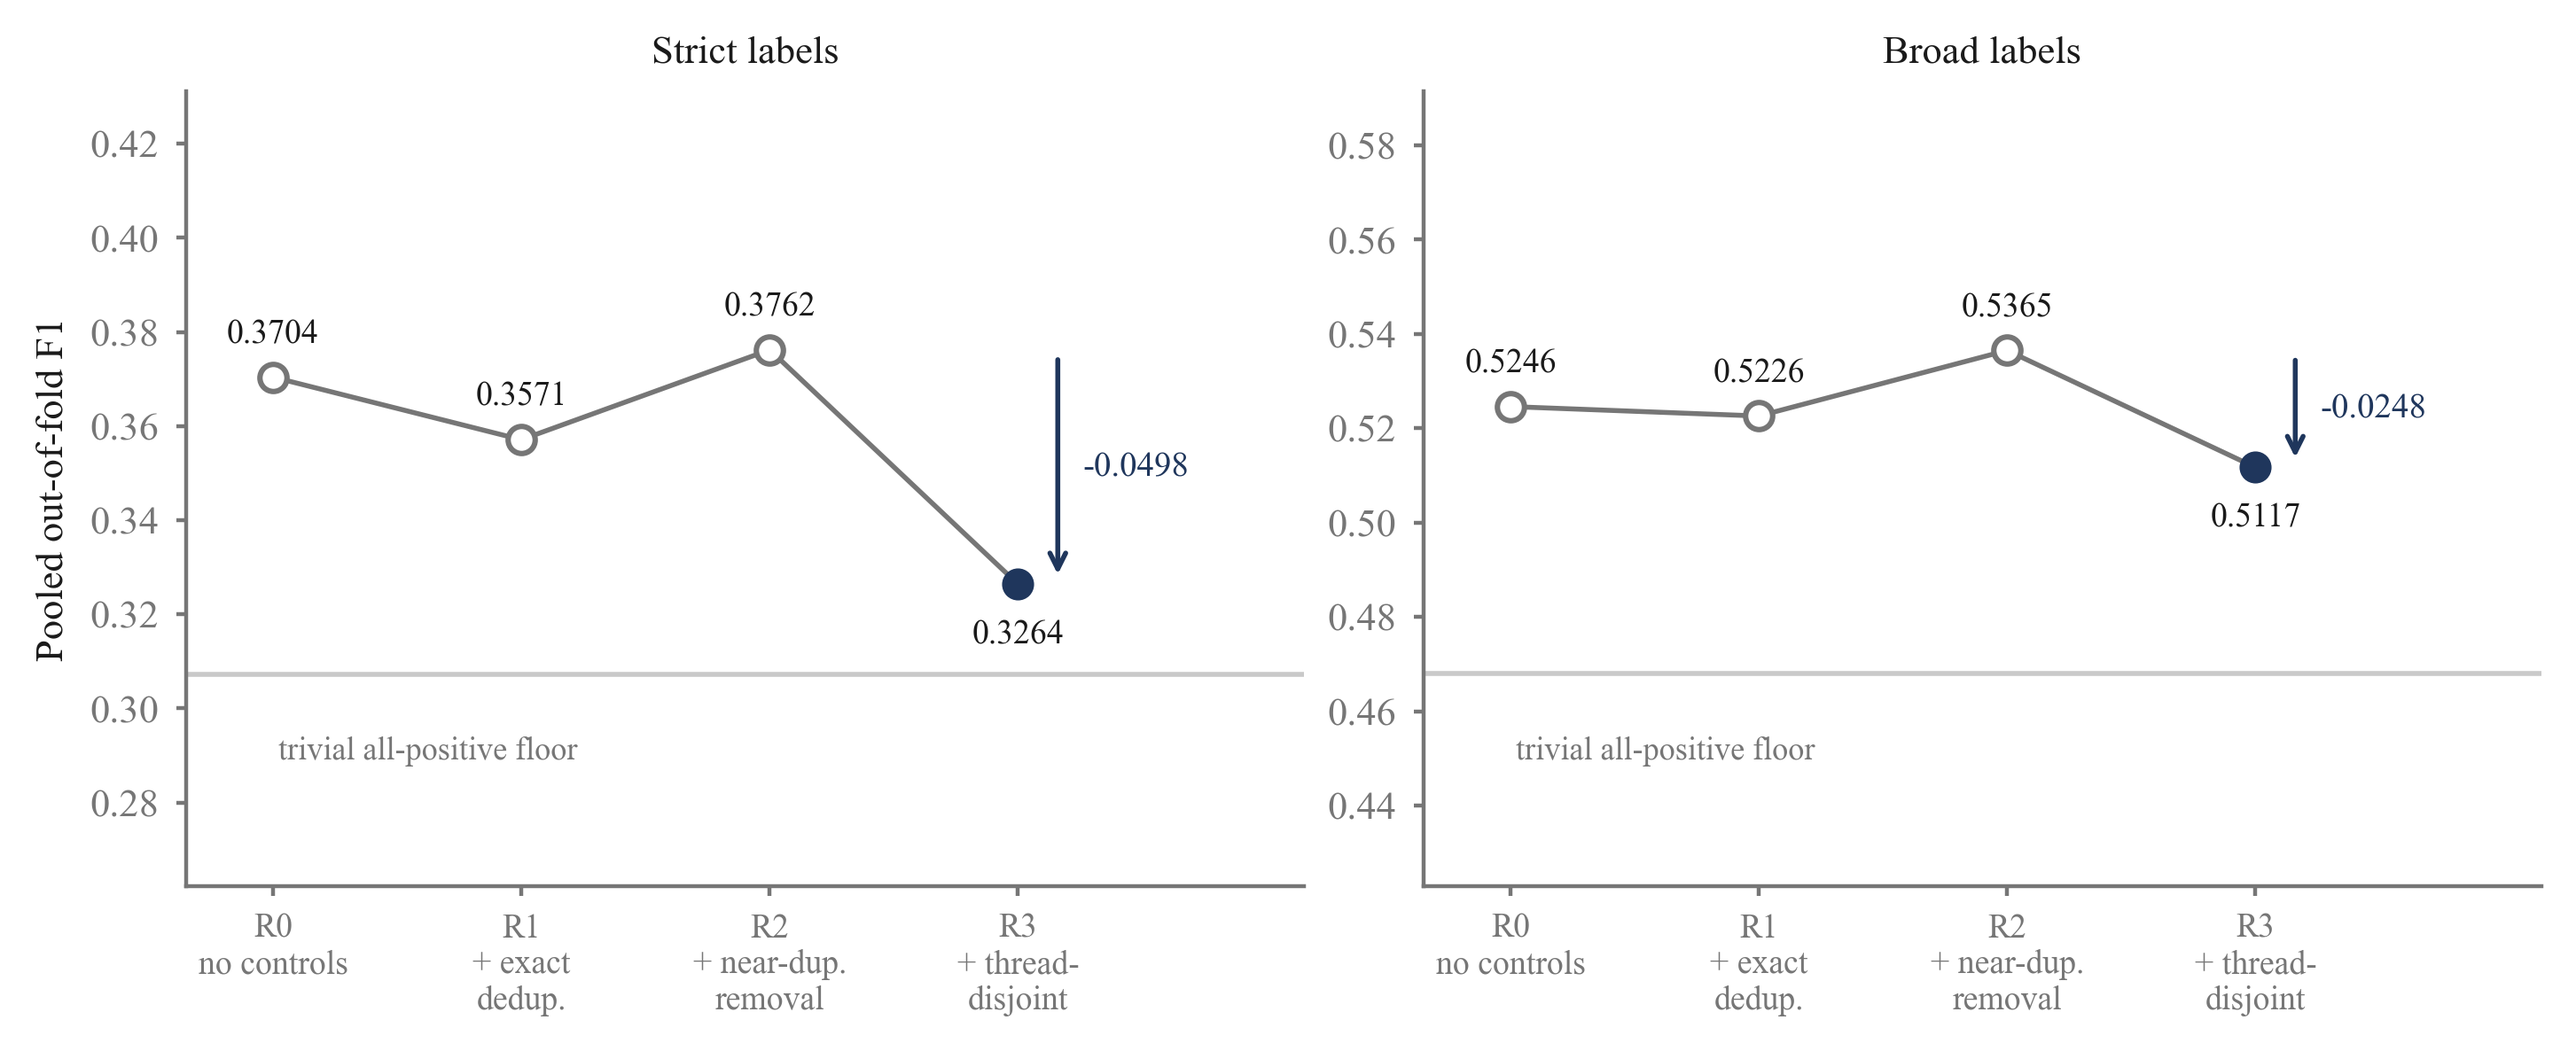
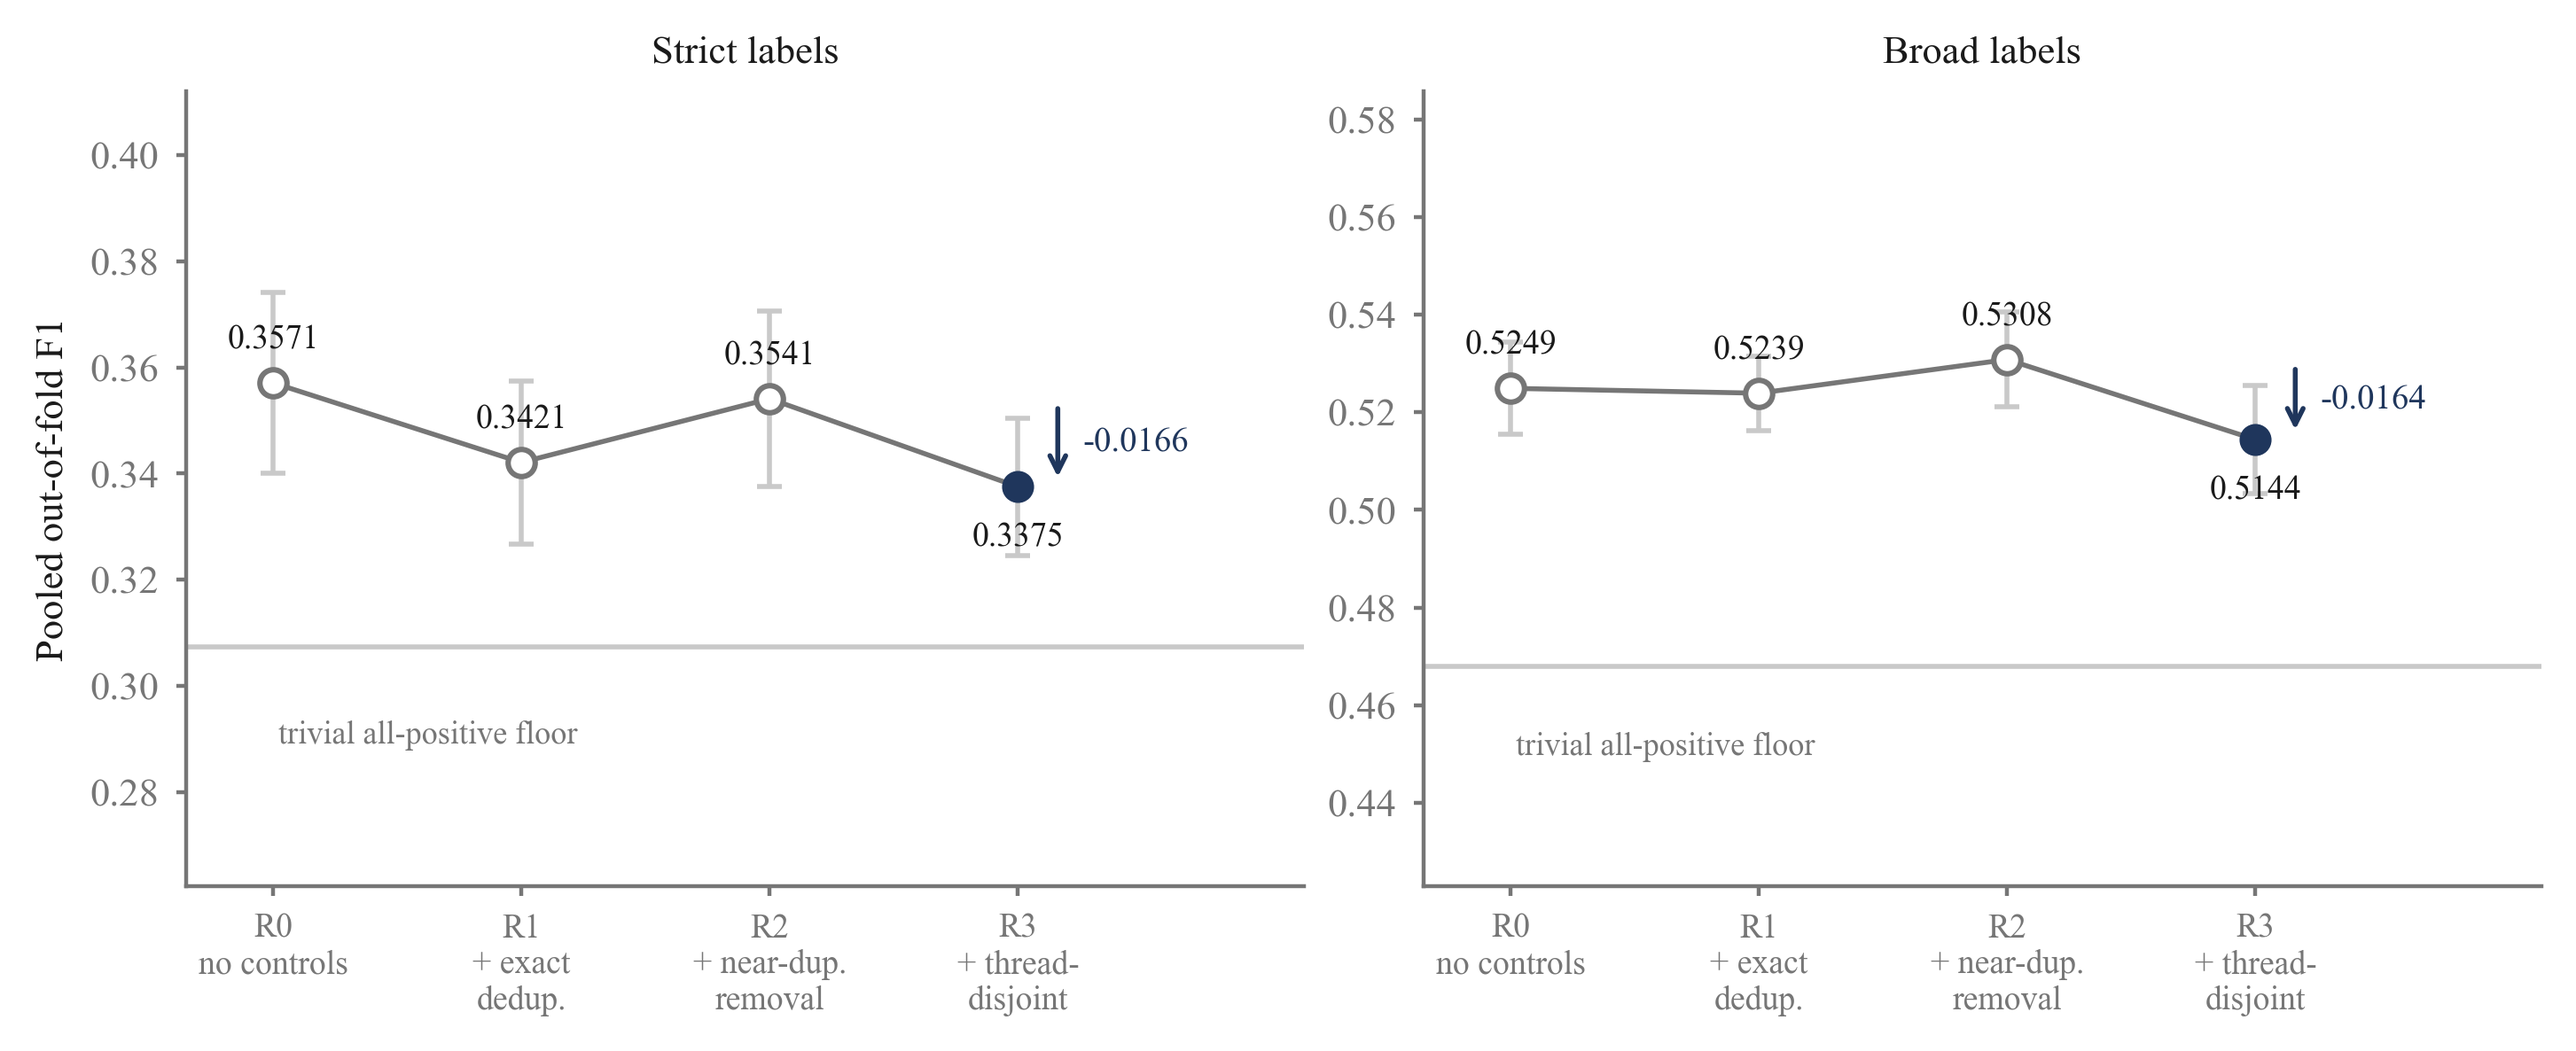
The leakage ladder was wrong; corrected, and one conclusion does not survive
A literature search turned up Roth (arXiv:2604.04199), who decomposes
leakage across 2,047 tabular datasets - so the decomposition idea is not
ours, and the paper now says so and claims only the narrower thing, that
his four classes do not cover conversational structure. The same search
surfaced a methodological point that sent us back to our own numbers.

Plain GroupKFold does not stratify. On this corpus it lets the test
positive rate range over 0.048 across folds, against 0.003 under
StratifiedKFold. F1 on an imbalanced problem moves with that rate, so
comparing an ungrouped rung against a grouped one measures leakage plus
a class-marginal nuisance term. Add that every rung was a single
partition, and the comparison changed three things at once.

Re-measured with twenty seeded partitions per rung and the grouped rung
stratified:

  exact deduplication   -0.0133 -> -0.0150 strict
  near-duplicate removal +0.0191 -> +0.0120 strict
  thread-disjoint split  -0.0498 -> -0.0166 strict
  total                  -0.0440 -> -0.0196 strict

The headline conclusion does not survive. We had reported that
conversational structure accounts for the inflation and duplication
contributes little. On the strict labels they are comparable, 0.0166
against 0.0150; only on the broad labels does thread structure dominate.
The thread effect itself is remarkably stable across label sets, 0.0166
and 0.0164, which is the finding that does hold.
[…]

diff --git a/scripts/ladder_stratified.py b/scripts/ladder_stratified.py
@@ -1,0 +1,103 @@
+# -*- coding: utf-8 -*-
+"""How much of the thread-grouping cost is leakage, and how much is imbalance?
+
+The ladder in strengthen.py compares a StratifiedKFold run (R2) against a
+plain GroupKFold run (R3). That changes two things at once. Thread disjointness
+is the one we mean to measure. The other is class balance: StratifiedKFold
+holds the test positive rate to within 0.003 across folds, while plain
+GroupKFold lets it range over 0.048 on this corpus, because it does not
+stratify. F1 on an imbalanced problem moves with the positive rate, so part of
+the measured drop is a nuisance term rather than leakage.
+
+StratifiedGroupKFold holds both: groups stay intact AND folds stay balanced.
+Comparing R2 against a stratified-grouped R3 isolates the leakage.
+
+Run under the same pinned environment as everything else.
+"""
+import io
+import json
+
+import numpy as np
+from sklearn.model_selection import (GroupKFold, StratifiedGroupKFold,
+                                     StratifiedKFold)
+
+import strengthen as S
+
+OUT = r"C:\Users\lenovo\Downloads\RESULTS_ladder_stratified.json"
+SEEDS = list(range(42, 62))          # 20 partitions, as in the repeated run
+
+
+def fold_balance(y, splits):
+    r = [float(y[te].mean()) for _, te in splits]
+    return round(max(r) - min(r), 4)
+
+
+def main():
+    raw = S.build(dedup=True)
+    keep, dropped = S.near_dup_keep(raw.text.tolist())
+    nd = raw[keep].reset_index(drop=True)
+    X = nd.text.tolist()
+    g = nd.thread_key.values
+    Xv = S.vectorise(X)
+
+    out = {"note": "R2 vs R3 with class balance held fixed",
+           "near_duplicates_dropped": int(dropped),
+           "environment": S.ENV}
+
+    for lab in ("strict", "broad"):
+        y = (nd.label if lab == "strict" else nd.label_either).values
+        print("=== %s labels, n=%d, positive rate %.4f ==="
+              % (lab, len(y), y.mean()), flush=True)
+
+        # R2: ungrouped, stratified - the rung the ladder compares against
+        r2 = [S.run_cv(X, y, g, "stratified", seed=s, Xv=Xv)[0]["f1"]
+              for s in SEEDS]
+        # R3 as published: grouped, NOT stratified
+        r3_plain = S.run_cv(X, y, g, "grouped", Xv=Xv)[0]["f1"]
+        # R3 with balance held: grouped AND stratified
+        r3_strat = [S.run_cv(X, y, g, "grouped", seed=s, Xv=Xv)[0]["f1"]
+                    for s in SEEDS]
+
+        bal_plain = fold_balance(y, list(GroupKFold(n_splits=5)
+                                         .split(X, y, g)))
+        bal_strat = fold_balance(y, list(StratifiedGroupKFold(
+            5, shuffle=True, random_state=42).split(X, y, g)))
+        bal_r2 = fold_balance(y, list(StratifiedKFold(
+            5, shuffle=True, random_state=42).split(X, y)))
+
+        m2, m3 = float(np.mean(r2)), float(np.mean(r3_strat))
+        rec = {
+            "r2_stratified_mean": round(m2, 4),
+            "r2_stratified_sd": round(float(np.std(r2)), 4),
+            "r3_grouped_plain": round(r3_plain, 4),
+            "r3_grouped_stratified_mean": round(m3, 4),
+            "r3_grouped_stratified_sd": round(float(np.std(r3_strat)), 4),
+            "drop_as_published": round(r3_plain - m2, 4),
+            "drop_balance_held": round(m3 - m2, 4),
+            "class_marginal_share": round((r3_plain - m3), 4),
+            "fold_balance_spread": {"r2_stratified": bal_r2,
+                                    "r3_grouped_plain": bal_plain,
+                                    "r3_grouped_stratified": bal_strat},
+            "seeds": len(SEEDS),
+        }
+        out[lab] = rec
+        print("  R2 stratified          %.4f +/- %.4f  (fold spread %.4f)"
+              % (rec["r2_stratified_mean"], rec["r2_stratified_sd"], bal_r2))
+        print("  R3 grouped, plain      %.4f              (fold spread %.4f)"
+              % (r3_plain, bal_plain))
+        print("  R3 grouped, stratified %.4f +/- %.4f  (fold spread %.4f)"
+              % (rec["r3_grouped_stratified_mean"],
+                 rec["r3_grouped_stratified_sd"], bal_strat))
+        print("  drop as published      %+.4f" % rec["drop_as_published"])
+        print("  drop, balance held     %+.4f   <- the leakage" %
+              rec["drop_balance_held"])
+        print("  class-marginal share   %+.4f   <- not leakage" %
+              rec["class_marginal_share"])
+        print(flush=True)
+
+    json.dump(out, io.open(OUT, "w", encoding="utf-8"), indent=2)
+    print("written %s" % OUT)
+
+
+if __name__ == "__main__":
+    main()

diff --git a/scripts/ladder_v2.py b/scripts/ladder_v2.py
@@ -1,0 +1,83 @@
+# -*- coding: utf-8 -*-
+"""The leakage ladder, re-measured so that each rung changes only one thing.
+
+The first ladder had a flaw its own paper warned against. Comparing R2 against
+R3 changed three things at once:
+
+  1. thread disjointness - the control being measured;
+  2. class balance across folds - StratifiedKFold holds the test positive rate
+     to within 0.003, plain GroupKFold lets it range over 0.048, and F1 on an
+     imbalanced problem moves with the positive rate;
+  3. the luck of one partition - every rung was a single split.
+
+Only the first is leakage. This version fixes all three: every rung is the
+mean over twenty seeded partitions, and the grouped rung uses
+StratifiedGroupKFold so that the class balance matches the ungrouped rungs.
+
+Whatever this returns replaces the published ladder. It is run under the same
+pinned environment as the rest.
+"""
+import io
+import json
+
+import numpy as np
+
+import strengthen as S
+
+OUT = r"C:\Users\lenovo\Downloads\RESULTS_ladder_v2.json"
+SEEDS = list(range(42, 62))
+
+
+def rung(X, y, g, split, Xv):
+    f = [S.run_cv(X, y, g, split, seed=s, Xv=Xv)[0]["f1"] for s in SEEDS]
+    m = [S.run_cv(X, y, g, split, seed=s, Xv=Xv)[0]["mcc"] for s in SEEDS]
+    return (round(float(np.mean(f)), 4), round(float(np.std(f)), 4),
+            round(float(np.mean(m)), 4))
+
+
+def main():
+    raw = S.build(dedup=False)
+    ded = S.build(dedup=True)
+    keep, dropped = S.near_dup_keep(ded.text.tolist())
+    nd = ded[keep].reset_index(drop=True)
+
+    out = {"environment": S.ENV, "seeds": len(SEEDS),
+           "near_duplicates_dropped": int(dropped),
+           "note": "every rung is the mean of 20 seeded partitions; the "
+                   "grouped rung uses StratifiedGroupKFold so fold class "
+                   "balance matches the ungrouped rungs"}
+
+    for lab in ("strict", "broad"):
+        col = "label" if lab == "strict" else "label_either"
+        rows = []
+        for name, df, split in (
+                ("R0  none (duplicates kept)", raw, "stratified"),
+                ("R1  + exact deduplication", ded, "stratified"),
+                ("R2  + near-duplicate removal", nd, "stratified"),
+                ("R3  + thread-disjoint split", nd, "grouped")):
+            X = df.text.tolist()
+            y = df[col].values
+            g = df.thread_key.values
+            f, sd, mcc = rung(X, y, g, split, S.vectorise(X))
+            rows.append({"rung": name, "n": int(len(y)), "f1": f,
+                         "f1_sd": sd, "mcc": mcc,
+                         "trivial_floor": S.trivial_f1(y)})
+            print("  %-30s n=%4d  F1 %.4f +/- %.4f  MCC %.4f"
+                  % (name, len(y), f, sd, mcc), flush=True)
+
+        f = [r["f1"] for r in rows]
+        deltas = {"exact_deduplication": round(f[1] - f[0], 4),
+                  "near_duplicate_removal": round(f[2] - f[1], 4),
+                  "thread_disjoint_split": round(f[3] - f[2], 4),
+                  "total_R0_to_R3": round(f[3] - f[0], 4)}
+        out[lab] = {"rungs": rows, "deltas": deltas}
+        print("  deltas: %s" % deltas)
+        print(flush=True)
+
+    json.dump(out, io.open(OUT, "w", encoding="utf-8"), indent=2)
+    print("written %s" % OUT)
+
+
+if __name__ == "__main__":
+    print("=== ladder v2: one control per rung, 20 seeds, balance held ===")
+    main()

diff --git a/paper_refs_v2.py b/paper_refs_v2.py
@@ -67,6 +67,7 @@ REFS = [
     'D. Antypas, I. Sen, C. Perez-Almendros, J. Camacho-Collados and F. Barbieri, “Sensitive content classification in social media: A holistic resource and evaluation,” in Proc. 9th Workshop on Online Abuse and Harms (WOAH), Aug. 2025, pp. 17–31. [Online]. Available: https://aclanthology.org/2025.woah-1.2/',
     'M. Ojala and G. C. Garriga, “Permutation tests for studying classifier performance,” J. Mach. Learn. Res., vol. 11, no. 62, pp. 1833–1863, 2010. [Online]. Available: https://www.jmlr.org/papers/v11/ojala10a.html',
     'G. C. Cawley and N. L. C. Talbot, “On over-fitting in model selection and subsequent selection bias in performance evaluation,” J. Mach. Learn. Res., vol. 11, no. 70, pp. 2079–2107, 2010. [Online]. Available: https://www.jmlr.org/papers/v11/cawley10a.html',
+    'S. Roth, “Which leakage types matter? A quantitative landscape across 2,047 benchmark datasets,” arXiv:2604.04199, Apr. 2026. [Online]. Available: https://arxiv.org/abs/2604.04199',
     'W. Antoun, F. Baly and H. Hajj, “AraBERT: Transformer-based model for Arabic language understanding,” in Proc. 12th Int. Conf. Language Resources and Evaluation (LREC), Marseille, France, 2020. [Online]. Available: https://aclanthology.org/2020.osact-1.2/',
     'NLLB Team, M. R. Costa-jussà, J. Cross, O. Çelebi, M. Elbayad, K. Heafield, K. Heffernan, E. Kalbassi, J. Lam, D. Licht, J. Maillard, A. Sun, S. Wang, G. Wenzek, A. Youngblood et al., “No language left behind: Scaling human-centered machine translation,” arXiv:2207.04672, 2022.',
 ]
@@ -119,9 +120,10 @@ VERIFIED = {
     42: 'acl 2025.woah-1.2 - PDF read 2026-09-21; pp. 17-31; gpt-4o 75.7',
     43: 'jmlr v11 ojala10a - page read 2026-09-21; vol. 11, pp. 1833-1863',
     44: 'jmlr v11 cawley10a - page read 2026-09-22; vol. 11, pp. 2079-2107',
-    45: 'arxiv 2003.00104 / LREC 2020 proceedings',
-    46: 'arxiv 2207.04672 - collective authorship, first 15 named then et al.',
+    45: 'arxiv 2604.04199 - abstract read 2026-09-22; single author, 5 Apr 2026',
+    46: 'arxiv 2003.00104 / LREC 2020 proceedings',
+    47: 'arxiv 2207.04672 - collective authorship, first 15 named then et al.',
 }
 
-assert len(REFS) == 46, len(REFS)
-assert len(VERIFIED) == 46, len(VERIFIED)
+assert len(REFS) == 47, len(REFS)
+assert len(VERIFIED) == 47, len(VERIFIED)

diff --git a/scripts/fig_ladder.py b/scripts/fig_ladder.py
@@ -19,7 +19,7 @@ matplotlib.use("Agg")
 import matplotlib.pyplot as plt
 import numpy as np
 
-RESULTS = r"C:\Users\lenovo\Downloads\RESULTS_strengthen_sklearn191.json"
+RESULTS = r"C:\Users\lenovo\Downloads\RESULTS_ladder_v2.json"
 OUT = os.path.join(os.path.dirname(os.path.abspath(__file__)),
                    "fig_v2_ladder.png")
 
@@ -50,10 +50,11 @@ def main():
     d = json.load(io.open(RESULTS, encoding="utf-8"))
     fig, axes = plt.subplots(1, 2, figsize=(7.2, 2.9), sharey=False)
 
-    for ax, key, title in ((axes[0], "ladder_strict", "Strict labels"),
-                           (axes[1], "ladder_broad", "Broad labels")):
-        rungs = d[key]
+    for ax, key, title in ((axes[0], "strict", "Strict labels"),
+                           (axes[1], "broad", "Broad labels")):
+        rungs = d[key]["rungs"]
         f1 = [r["f1"] for r in rungs]
+        sd = [r["f1_sd"] for r in rungs]
         floor = rungs[-1]["trivial_floor"]
         x = np.arange(len(f1))
 
@@ -61,6 +62,8 @@ def main():
         ax.annotate("trivial all-positive floor", xy=(0.02, floor),
                     xytext=(0.02, floor - 0.018), fontsize=6.5, color=MID)
 
+        ax.errorbar(x, f1, yerr=sd, fmt="none", ecolor=LIGHT, elinewidth=1.0,
+                    capsize=2.5, zorder=1)
         ax.plot(x, f1, "-", color=MID, lw=1.0, zorder=2)
         ax.plot(x[:-1], f1[:-1], "o", color="white", mec=MID, mew=1.1,
                 ms=5.5, zorder=3)
@@ -87,8 +90,8 @@ def main():
         ax.set_xticks(x)
         ax.set_xticklabels(LABELS, fontsize=6.8)
         ax.set_xlim(-0.35, len(f1) + 0.15)
-        lo = min(min(f1), floor) - 0.045
-        hi = max(f1) + 0.055
+        lo = min(min(f1), floor) - max(0.045, max(sd) + 0.02)
+        hi = max(f1) + max(0.055, max(sd) + 0.03)
         ax.set_ylim(lo, hi)
         ax.set_title(title, fontsize=8, color=INK, pad=6)
         ax.tick_params(length=2)
@@ -97,8 +100,8 @@ def main():
     fig.tight_layout(pad=0.6)
     fig.savefig(OUT, bbox_inches="tight", facecolor="white")
     print("written %s" % OUT)
-    for k in ("ladder_strict", "ladder_broad"):
-        print("  %-14s %s" % (k, [r["f1"] for r in d[k]]))
+    for k in ("strict", "broad"):
+        print("  %-8s %s" % (k, [r["f1"] for r in d[k]["rungs"]]))
 
 
 if __name__ == "__main__":

diff --git a/README.md b/README.md
@@ -56,9 +56,13 @@ extension: ~35 min given a cached translation, ~105 min without one.
 | `results/RESULTS_arabic_v2.md` | The same, annotated with what the section should and should not claim. |
 | `results/FINDING_sklearn_groupkfold.md` | The full record of the version-dependence investigation behind Section VII-F. |
 | `results/superseded/` | Earlier runs. Kept because Section VII-F compares against them; **do not quote these as results.** |
-| `paper_refs_v2.py` | The 46 references plus `VERIFIED`, recording how each was resolved. Every entry carries a DOI, an arXiv id or a stable URL. |
+| `paper_refs_v2.py` | The 47 references plus `VERIFIED`, recording how each was resolved. Every entry carries a DOI, an arXiv id or a stable URL. |
 | `fig_v2_*.png` | The three paper figures. |
 | `scripts/fig_ladder.py` | Builds Fig. 3 straight from the results file, so the figure cannot drift from the numbers. |
+| `scripts/ladder_v2.py` | The corrected leakage ladder: one control per rung, twenty seeded partitions, fold class balance held fixed. **Supersedes the ladder in `strengthen.py`.** |
+| `scripts/ladder_stratified.py` | Separates the thread-grouping cost from the class-marginal term that plain GroupKFold introduces. |
+| `results/RESULTS_ladder_v2.json` | The corrected ladder. Source of Table VII and Fig. 3. |
+| `results/RESULTS_ladder_stratified.json` | The leakage / class-imbalance separation. |
 | `scripts/strengthen.py` | The leakage ladder, the permutation null, the repeated cross-validation and the agreement interval. Runs on CPU. |
 | `scripts/compare_versions.py` | Builds the scikit-learn 1.8.0 against 1.9.1 comparison from the two result files. |
 | `scripts/llm_protocol.py` | An instruction-tuned LLM under the same protocol. Produced Table IX. |
